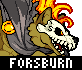
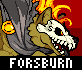
add backgrounds

Changed region(s): [[0.6585, 0.0, 1.0, 0.8], [0.8049, 0.6857, 0.8293, 0.7143], [0.7805, 0.6571, 0.8049, 0.6857]]

diff --git a/static/style.css b/static/style.css
@@ -659,20 +659,23 @@ article h4 {
   display: grid;
   grid-template-columns: repeat(4, 1fr);
   gap: 0 .25rem;
-  max-width: 100%;
+  max-width: 35rem;
   margin: var(--page-padding);
-  margin-top: 2rem;
+  margin-top: 1rem;
   margin-bottom: var(--footer-margin);
 }
 
 .library-select li a img {
-  border: 3px solid var(--clr-text-hc);
+  border: .25rem solid var(--clr-text-hc);
+  border-bottom: .125rem solid var(--clr-text-hc);
+  max-width: 100%;
+  height: auto;
 }
 
 @media (prefers-reduced-motion: no-preference) {
   .library-select li:hover {
     transform: scale(1.02);
-    transition: transform .1s ease-in;
+    transition: transform .05s ease-in;
   }
 }
 
@@ -711,7 +714,6 @@ article h4 {
 
 .library-grid li a div img {
   margin: auto;
-  height: 2rem;
 }
 
 .toc {

diff --git a/layouts/library/list.html b/layouts/library/list.html
@@ -20,7 +20,7 @@
                         "ori" "shovel-knight") }}
           <li><a href="/library/{{ . }}"><div>
             <span class="sr-only">{{ humanize . | title }}</span>
-            <img aria-hidden="true" src="/img/library-select/{{ . }}.png">
+            <img aria-hidden="true" src="https://rivals.academy/img/library-select/2x_{{ . }}.png">
           </div></a></li>
         {{ end }}
         <li><a href="/library/stages">Stages</a></li>
